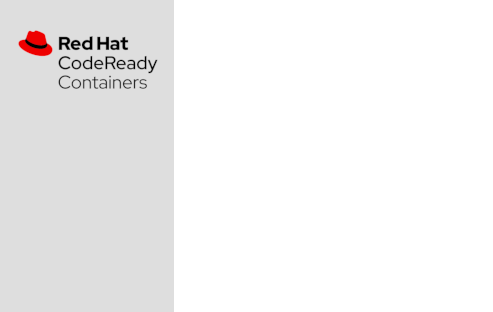
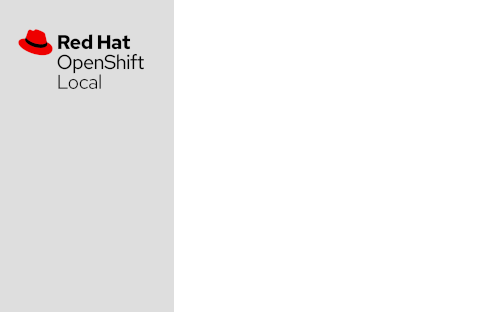
Windows: rename to Red Hat OpenShift Local

Changed region(s): [[0.0304, 0.0865, 0.3347, 0.2885]]

diff --git a/pkg/crc/constants/constants_windows.go b/pkg/crc/constants/constants_windows.go
@@ -6,5 +6,5 @@ const (
 	TapSocketPath              = ""
 	DaemonHTTPNamedPipe        = `\\.\pipe\crc-http`
 	DaemonTaskName             = "crcDaemon"
-	AdminHelperServiceName     = "CodeReadyContainersAdminHelper"
+	AdminHelperServiceName     = "crcAdminHelper"
 )
